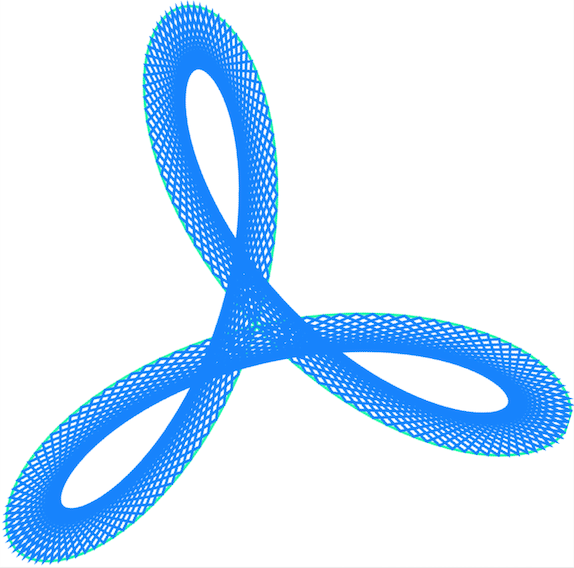
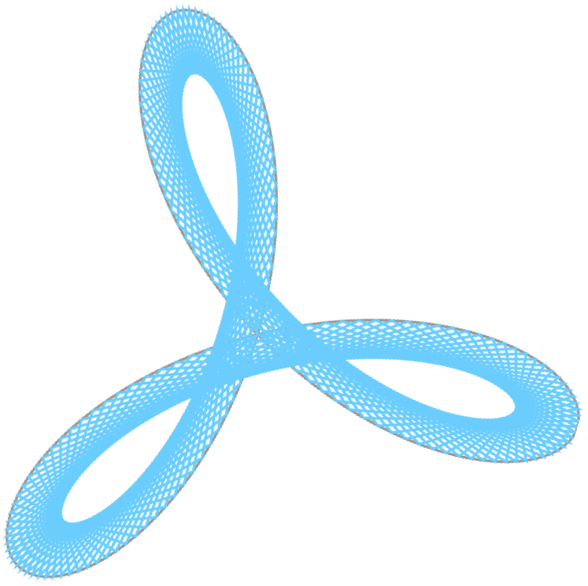
update

Changed region(s): [[0.0, 0.0, 1.0, 1.0]]

diff --git a/assets/2020/scripts/rose.js b/assets/2020/scripts/rose.js
@@ -35,6 +35,7 @@ function draw() {
     translate(width / 2, height / 2);
 
     beginShape();
+    stroke('#999999');
     // stroke(color(`hsl(160, 100%, 50%)`));
     noFill();
     strokeWeight(2);
@@ -52,7 +53,7 @@ function draw() {
     push();
     translate(width / 2, height / 2);
     beginShape();
-    stroke('cyan');
+    stroke('#66CCFF');
     // stroke(color('hsl(210, 100%, 50%)'));
     noFill();
     strokeWeight(2);
